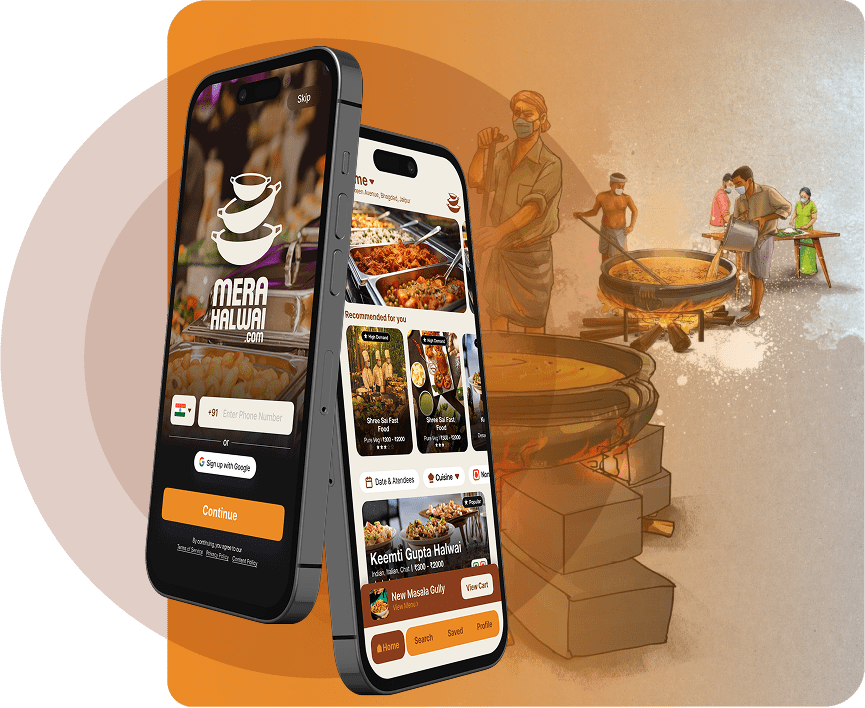
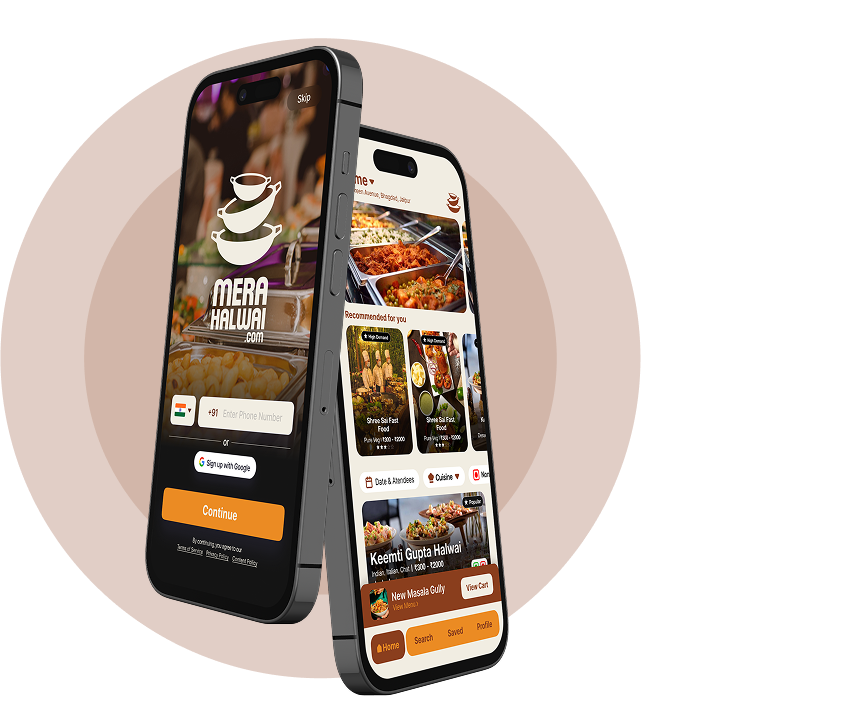
kardiya

diff --git a/src/components/Home1.jsx b/src/components/Home1.jsx
@@ -49,7 +49,7 @@ const Home1 = () => {
                         width={200}
                         height={200}
                         priority
-                        className='swing'
+                        className='float'
                         style={{
                             width: 'clamp(5rem,11vw,200rem)',
                             height: "auto"
@@ -59,7 +59,7 @@ const Home1 = () => {
 
                 <div className="absolute rounded-b-full overflow-hidden"
                 style={{
-                    bottom: 'clamp(10rem,1OFFvw,100rem)',
+                    bottom: 'clamp(9rem,10vw,100rem)',
                     right: "clamp(0.0001rem,6vw,100rem)"
 
                 }}
@@ -69,7 +69,7 @@ const Home1 = () => {
                         alt="Food illustration"
                         width={200}
                         height={200}
-                        className='swing'
+                        className='float'
                         loading="eager"
                         style={{
                             width: 'clamp(5rem,11vw,200rem)',

diff --git a/src/app/globals.css b/src/app/globals.css
@@ -24,6 +24,22 @@
   100% { transform: rotate(12deg); }
 }
 
+.float {
+  animation: float 3s ease-in-out infinite;
+}
+
+@keyframes float {
+  0% {
+    transform: translateY(0);
+  }
+  50% {
+    transform: translateY(-20px);
+  }
+  100% {
+    transform: translateY(0);
+  }
+}
+
 .swing {
   animation: rotateSwing 0.5s infinite steps(1);
 }
